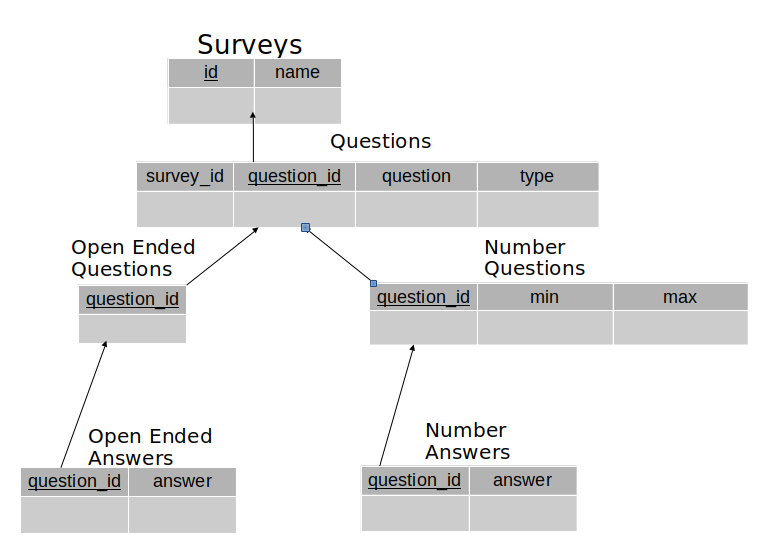
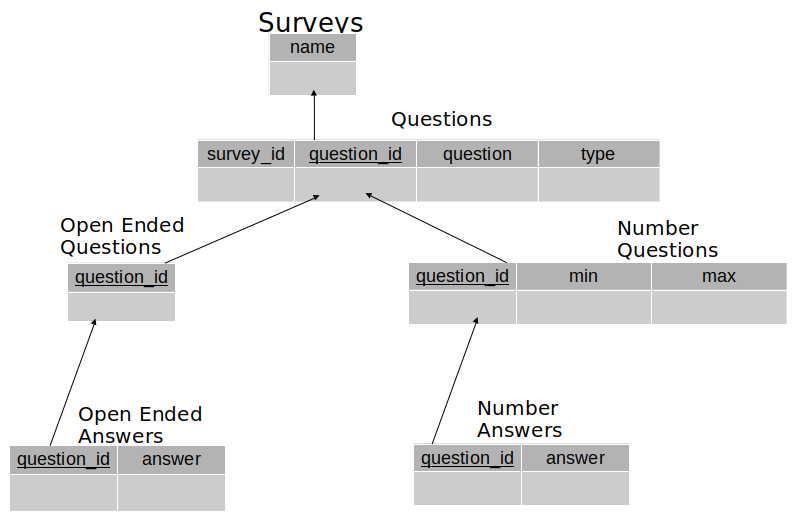
Update Schema. Prevent multiple questions with same name for same survey.

diff --git a/src/test/java/webApp/webControllerTest.java b/src/test/java/webApp/webControllerTest.java
@@ -22,7 +22,7 @@ public class webControllerTest {
 
     @Test
     public void testRestApplication() throws Exception {
-        String surveyString = "{ \"name\" : \"survey1\", \"questions\" : [{ \"type\": \"openEnded\", \"question\": \"q1\" }, { \"type\": \"openEnded\", \"question\": \"q1\" }, { \"type\": \"numberQuestion\", \"question\": \"q1\", \"min\": 0, \"max\": 5 }]}";
+        String surveyString = "{ \"name\" : \"survey1\", \"questions\" : [{ \"type\": \"openEnded\", \"question\": \"q1\" }, { \"type\": \"openEnded\", \"question\": \"q2\" }, { \"type\": \"numberQuestion\", \"question\": \"q3\", \"min\": 0, \"max\": 5 }]}";
 
         this.mockMvc.perform(post("/createSurvey").contentType("application/json")
                 .content(surveyString)).andExpect(status().isOk())
@@ -36,5 +36,12 @@ public class webControllerTest {
 
         this.mockMvc.perform(get("/retrieveSurvey?name=survey1")).andExpect(status().isOk())
                 .andExpect(content().json(surveyString));
+
+        surveyString = "{ \"name\" : \"survey2\", \"questions\" : [{ \"type\": \"openEnded\", \"question\": \"q1\" }, { \"type\": \"openEnded\", \"question\": \"q1\" }, { \"type\": \"numberQuestion\", \"question\": \"q1\", \"min\": 0, \"max\": 5 }]}";
+
+        this.mockMvc.perform(post("/createSurvey").contentType("application/json")
+                .content(surveyString)).andExpect(status().isOk())
+                .andExpect(content().string(containsString("error")))
+                .andExpect(content().string(containsString("Duplicate questions detected")));
     }
 }

diff --git a/src/main/java/webApp/webController.java b/src/main/java/webApp/webController.java
@@ -8,6 +8,7 @@ import survey.*;
 
 import java.util.ArrayList;
 import java.util.Collection;
+import java.util.HashSet;
 import java.util.Optional;
 
 /*
@@ -33,12 +34,21 @@ public class webController {
         Survey survey = new Survey(surveyMessage.getName());
         Collection<Question> questionList = new ArrayList<>();
 
+        ArrayList<String> questionTexts = new ArrayList<>();
+
         for (QuestionMessage question : surveyMessage.getQuestions()) {
+            questionTexts.add(question.getQuestion());
             if (question.getType().equals("openEnded")) {
                 questionList.add(new OpenEndedQuestion(question.getQuestion()));
             } else if(question.getType().equals("numberQuestion")) {
                 questionList.add(new NumberQuestion(question.getQuestion(), question.getMin(), question.getMax()));
             }
+        }
+
+        HashSet<String> set = new HashSet<>(questionTexts);
+
+        if(set.size() < questionTexts.size()){
+            return new Response("error", "Duplicate questions detected");
         }
 
         survey.setQuestions(questionList);
